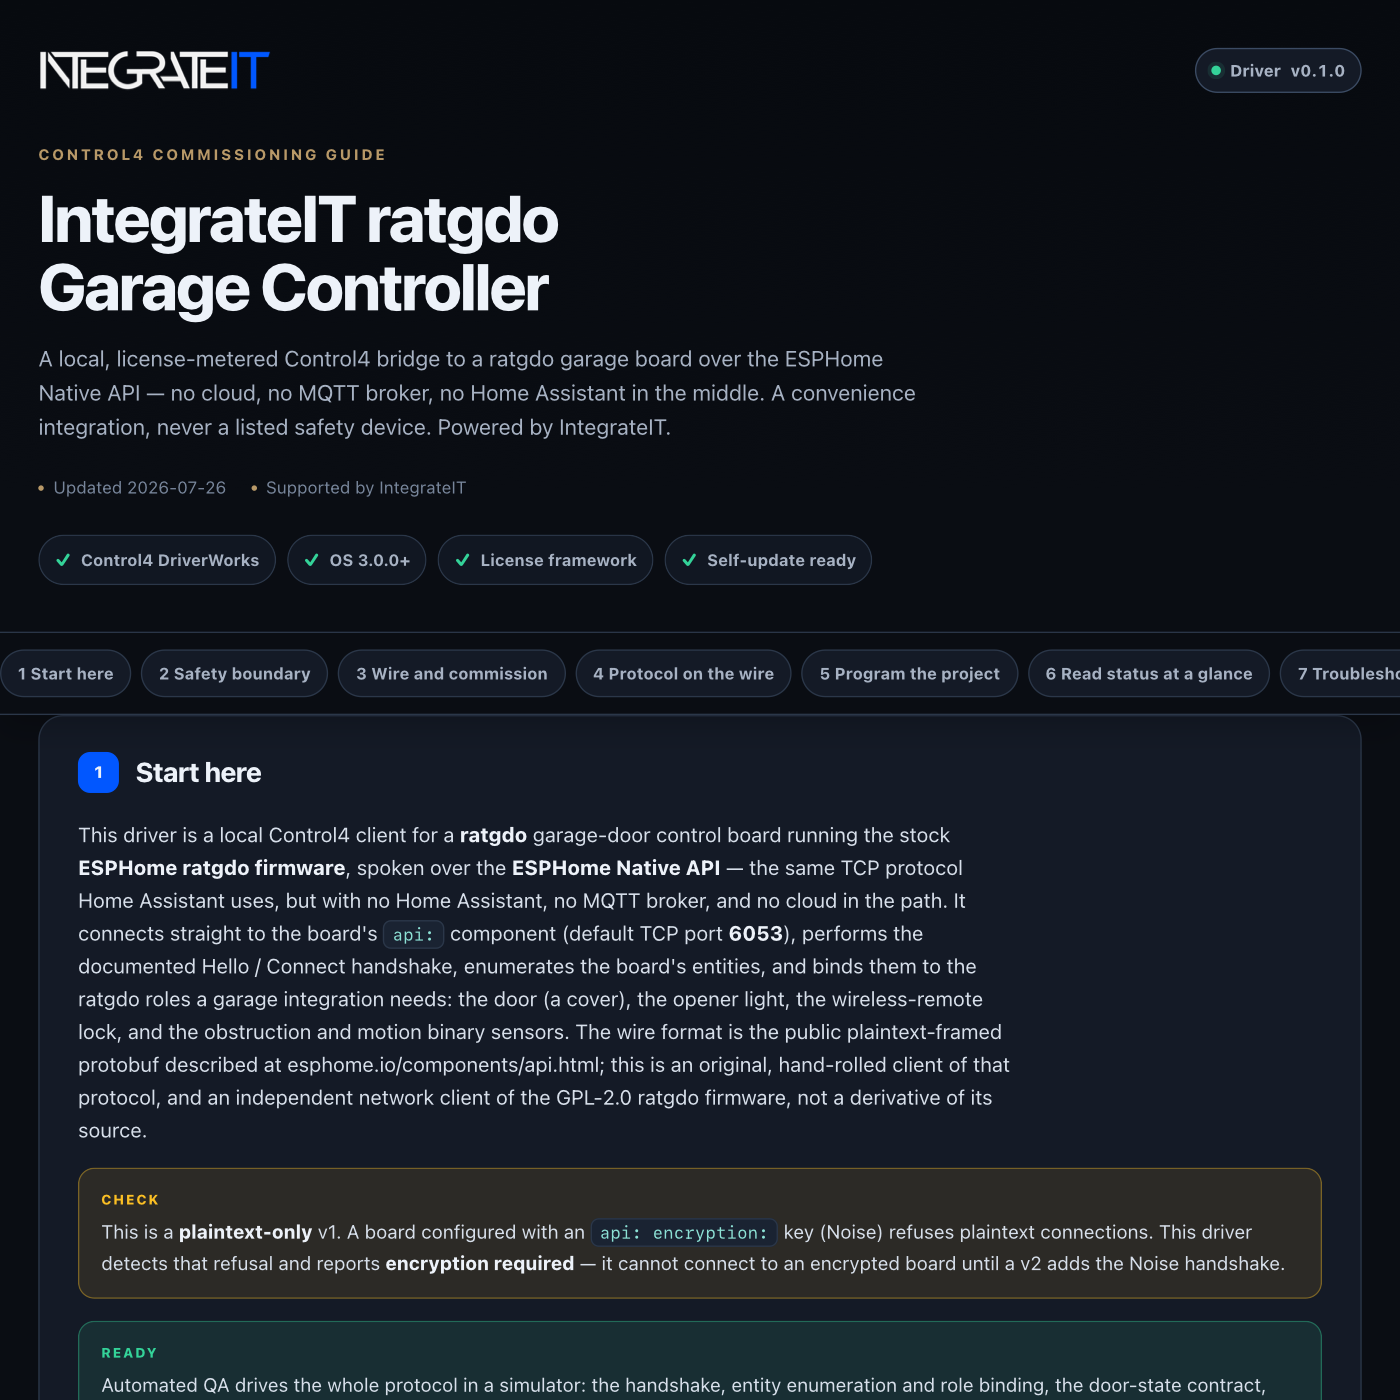
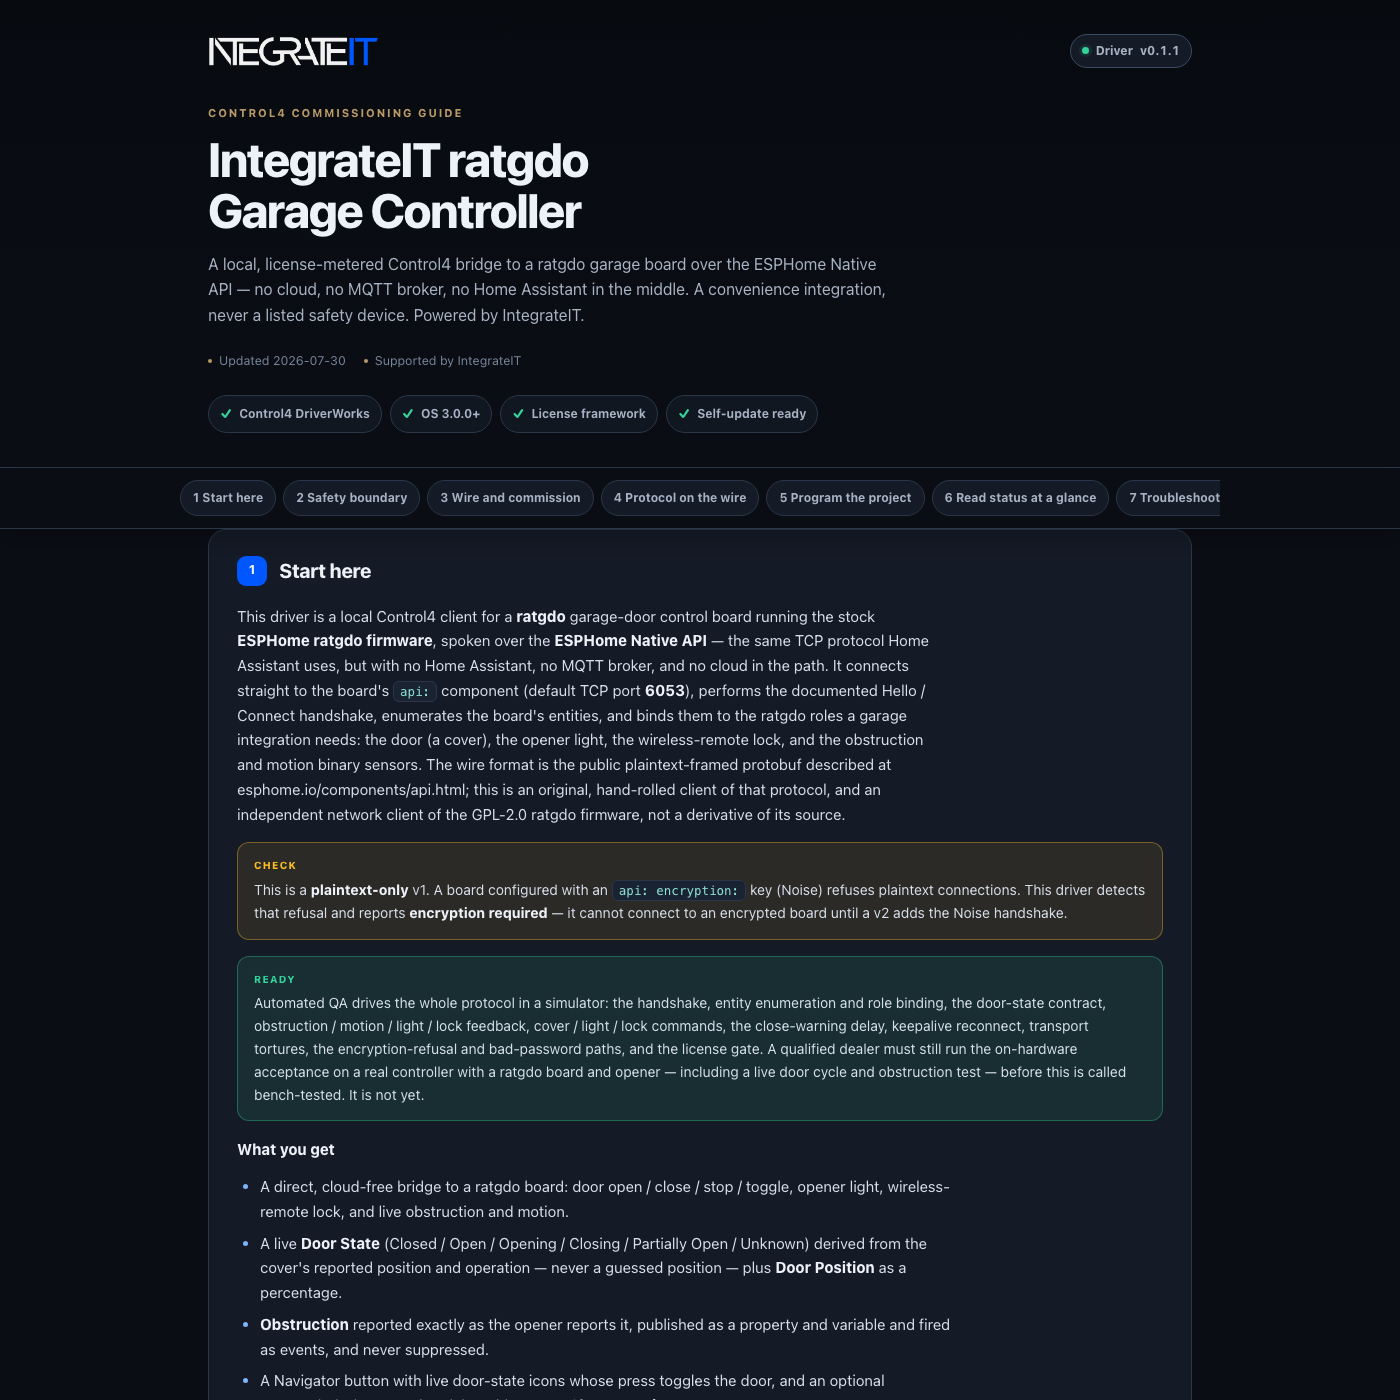
control4: publish driver channel (integrateit_ratgdo 0.1.2)

Changed region(s): [[0.0, 0.0, 0.9521, 1.0], [0.7371, 0.4607, 1.0, 0.4914], [0.7679, 0.0307, 0.9829, 0.0614]]

diff --git a/control4/integrateit_ratgdo/documentation.html b/control4/integrateit_ratgdo/documentation.html
@@ -179,13 +179,13 @@ td code{white-space:normal}
     <div class="wrap">
       <div class="brandbar">
[1 lines of base64/hex data omitted]
-        <span class="version"><span class="word">Driver</span> v0.1.1</span>
+        <span class="version"><span class="word">Driver</span> v0.1.2</span>
       </div>
       <p class="eyebrow">Control4 commissioning guide</p>
       <h1>IntegrateIT ratgdo Garage Controller</h1>
       <p class="sub">A local, license-metered Control4 bridge to a ratgdo garage board over the ESPHome Native API — no cloud, no MQTT broker, no Home Assistant in the middle. A convenience integration, never a listed safety device. Powered by IntegrateIT.</p>
       <div class="meta">
-        <span>Updated 2026-07-30</span>
+        <span>Updated 2026-07-31</span>
         <span>Supported by IntegrateIT</span>
       </div>
       <div class="readiness" aria-label="Driver capabilities">
@@ -224,7 +224,7 @@ td code{white-space:normal}
   <ol class="steps">
     <li>Prove the opener and all of its safety devices using the manufacturer's wall control and the ratgdo's own web UI first.</li>
     <li>Confirm the ratgdo board is flashed with stock ESPHome ratgdo firmware and is reachable on the LAN with its <code>api:</code> component enabled.</li>
-    <li>Understand that <b>Obstruction</b> here is *reported*, not *enforced*. When the opener reports the path obstructed, this driver surfaces it and never hides it — but the opener, not Control4, reverses the door.</li>
+    <li>Understand that <b>Obstruction</b> here is <i>reported</i>, not <i>enforced</i>: the driver surfaces it and never hides it, but the opener — not Control4 — reverses the door.</li>
     <li>Treat remote <b>open</b> and <b>close</b> as a security and safety exposure. This driver runs them only on an explicit user press or a program action, and never wires the door to auto-open on a scene.</li>
     <li>For an unattended-close workflow, set <b>Close Warning (s)</b> so a chime or light runs before the door moves — but that delay and its <b>Door Close Warning</b> event are an automation aid, <b>not</b> an audible/visual safety device. A listed unattended-close path uses the opener's approved warning accessories.</li>
   </ol>
@@ -265,7 +265,9 @@ td code{white-space:normal}
     <tr><td><code>OBSTRUCTION</code></td><td>BOOL</td><td>The opener reported the path obstructed</td></tr>
     <tr><td><code>MOTION</code></td><td>BOOL</td><td>The ratgdo motion sensor reported motion</td></tr>
     <tr><td><code>LIGHT_ON</code></td><td>BOOL</td><td>The opener light is on</td></tr>
-    <tr><td><code>LOCKED</code></td><td>BOOL</td><td>The wireless-remote lock is Locked</td></tr>
+    <tr><td><code>LOCKED</code> / <code>LOCK_STATE</code></td><td>BOOL / STRING</td><td>The wireless-remote lock is Locked / the lock's reported word</td></tr>
+    <tr><td><code>DEVICE_ONLINE</code> / <code>ENTITIES_ENUMERATED</code></td><td>BOOL</td><td>The board is connected / its entity list has been read</td></tr>
+    <tr><td><code>DEVICE_INFO</code></td><td>STRING</td><td>The board's name, model, ESPHome version, and MAC</td></tr>
   </table>
 </section>
 
@@ -274,8 +276,8 @@ td code{white-space:normal}
   <ul>
     <li><b>Connection Status</b> — <code>Not connected</code>, <code>Connecting…</code>, <code>Handshaking…</code>, <code>Authenticating…</code>, <code>Connected</code>, <code>Encryption required</code>, <code>Password rejected</code>, or a <code>Blocked: …</code> destination reason.</li>
     <li><b>Door State</b> — the derived door position/operation, or <code>Unknown</code> until the board first reports. <b>Door Position</b> carries the percentage.</li>
-    <li><b>Obstruction</b> — <code>Obstructed</code>, <code>Clear</code>, or <code>Unknown</code>. This is *reported*, never enforced, and never suppressed. Treat <code>Unknown</code> as "no reading yet".</li>
-    <li><b>Motion</b>, <b>Light State</b>, <b>Lock State</b> — the last reported value for each role, or <code>Unknown</code>.</li>
+    <li><b>Obstruction</b> — <code>Obstructed</code>, <code>Clear</code>, or <code>Unknown</code>. <i>Reported</i>, never enforced, and never suppressed.</li>
+    <li><b>Motion</b>, <b>Light State</b>, <b>Lock State</b> — the last reported value, or <code>Unknown</code>.</li>
     <li><b>Entities Found</b> — every enumerated entity plus the role each was bound to.</li>
     <li>Automate on the typed variables; treat <code>Unknown</code> as "no reading yet", not as a safe or closed door — anything claiming a position the board never reported would be faking it.</li>
   </ul>
@@ -285,9 +287,9 @@ td code{white-space:normal}
   <h2><span class="n">7</span> Troubleshoot methodically</h2>
   <ul>
     <li><b>Nothing connects, Connection Status shows <code>Blocked</code></b> — the destination failed the LAN-only check. Use a private LAN IPv4 or <code>*.local</code>, or set <b>Allow WAN Destinations</b> to Yes if you truly mean an off-LAN host.</li>
-    <li><b>Connection Status shows <code>Encryption required</code></b> — the board has an <code>api:</code> encryption key. Remove it in the ESPHome config, or wait for the v2 Noise build.</li>
+    <li><b>Connection Status shows <code>Encryption required</code></b> — remove the board's <code>api: encryption: key:</code> in the ESPHome config, or wait for the v2 Noise build.</li>
     <li><b>Connection Status shows <code>Password rejected</code></b> — the <b>Device Password</b> does not match the board's <code>api: password:</code>. Fix it; a rejected password is not retried.</li>
-    <li><b>Connected, but Door State stays <code>Unknown</code> and Entities Found shows no <code>door=</code></b> — no cover was enumerated (or the <b>Door Entity</b> override matches nothing). Confirm the ratgdo firmware exposes the garage-door cover, then <b>Refresh Entities</b>.</li>
+    <li><b>Connected, but Door State stays <code>Unknown</code> and Entities Found shows no <code>door=</code></b> — no cover was enumerated, or the <b>Door Entity</b> override matches nothing. Confirm the ratgdo firmware exposes the garage-door cover, then run <b>Refresh Entities</b>.</li>
     <li><b>A command does nothing and Status says <code>no bound entity</code></b> — that role has no matching entity on this board. Check <b>Entities Found</b> and set the override.</li>
     <li><b>The link drops and recovers on its own</b> — keepalive lost three pings and reconnected with backoff; entities re-enumerate automatically.</li>
     <li>Still stuck? Contact <b>support@integrateit.tech · (913) 804-7575</b>.</li>
@@ -299,7 +301,7 @@ td code{white-space:normal}
   <p>Nothing leaves the controller's LAN: the driver talks only to the ratgdo IP you set, and the destination guard refuses off-LAN hosts unless you opt in. The API password lives in a password-typed property and is never printed or logged — Debug records frame type and byte count only, never payloads. This is an original IntegrateIT implementation of the ESPHome Native API wire protocol; it bundles no third-party firmware source, driver, brand assets, or license. Licensing is MAC-locked to this controller: in <b>Lenient</b> mode (default) control still works and License Status carries the activation nag; in <b>Strict</b> mode an unlicensed controller cannot open the connection or send a door, light, or lock command at all — but obstruction and every other feedback path still flow, because safety reporting is never gated. The license is re-checked at command dispatch and again immediately before each wire write. Self-update, when enabled, stages a newer signed build from the IntegrateIT channel without touching your bindings.</p>
 <section class="card" id="reference" data-card="reference">
   <h2><span class="n">R</span> Reference</h2>
-  <p>Generated from the driver manifest at build time — always matches this build (v0.1.1).</p>
+  <p>Generated from the driver manifest at build time — always matches this build (v0.1.2).</p>
   <h3>Properties</h3>
   <table>
     <tr><th>Property</th><th>Type</th><th>Default</th><th>Description</th></tr>
@@ -453,7 +455,9 @@ td code{white-space:normal}
     <section class="card" id="changelog" data-card="changelog">
   <h2><span class="n">V</span> Version history</h2>
   <div class="chg">
-    <div class="rel"><b>v0.1.1</b> <span class="pill green">current</span><span class="d">2026-07-30</span>
+    <div class="rel"><b>v0.1.2</b> <span class="pill green">current</span><span class="d">2026-07-31</span>
+      <ul><li>Certification pass: this driver was read end to end against its own manifest and code — every command, action, event, variable and property name checked for a single spelling across the manifest, the code and this guide; every programming recipe rebuilt from names that actually exist; the commissioning path checked to end in something a dealer can observe; and every claim in the documentation verified against what the code does rather than what it intended.</li><li>Documentation rendering: emphasis written as *emphasis* in the source now renders as emphasis in the packaged Documentation tab instead of shipping as literal asterisks. Protocol strings that legitimately contain a star, quoted inside code, stay exactly as written.</li></ul></div>
+    <div class="rel"><b>v0.1.1</b><span class="d">2026-07-30</span>
       <ul><li>A numeric property containing nan or inf (possible through a hand-edited project file) passed tonumber, defeated every range clamp (all nan comparisons are false), and could reach a timer interval or the wire. Numeric properties now fall back to their documented default when non-finite, and the transmit chokepoint refuses a non-finite value by name.</li><li>A non-finite delay property armed a timer that never fired; the delay now falls back to its documented default.</li><li>Adds the fleet-standard Run Diagnostics and Run Self-Test dealer actions: read-only, license-independent, cached-state honesty. Diagnostics reports what the driver has already observed - never probing the network, never printing a secret. Self-Test proves the shared layer locally and ends PASS or FAIL.</li></ul></div>
     <div class="rel"><b>v0.1.0</b><span class="d">2026-07-26</span>
       <ul><li>Initial release candidate: a clean-room Control4 driver for a ratgdo board running stock ESPHome ratgdo firmware, speaking the ESPHome Native API plaintext-framed protobuf wire protocol directly over TCP (default port 6053) with a hand-rolled minimal codec — no third-party library. Specified from ESPHome's public docs (esphome.io/components/api.html) and the public api.proto message-id / field annotations, and the public ratgdo project's documented ESPHome entity surface (github.com/ratgdo/esphome-ratgdo). The ratgdo firmware is GPL-2.0; this driver is an independent network client of it, not a derivative of its source.</li><li>Handshake: HelloRequest/HelloResponse, then ConnectRequest with the optional legacy plaintext password and ConnectResponse (invalid_password surfaces a Password Rejected event with no retry storm), DeviceInfoRequest, a full ListEntities enumeration, and SubscribeStates.</li><li>Entity binding: auto-binds the ratgdo roles from the enumeration — the garage door (cover), the opener light, the wireless-remote lock, and the obstruction and motion binary sensors — with per-role object-id / key-hex overrides for non-standard entity names. A rebind re-baselines the role so no stale reading drives automation and the new entity's first reading is silent.</li><li>Door: Open / Close / Stop / Toggle over CoverCommandRequest, and a live Door State (Closed / Open / Opening / Closing / Partially Open / Unknown) derived from the cover's reported operation and position — never a guessed position. Door position is published as a percentage. A door stopped mid-travel reports as Partially Open, because the protocol reports position, not intent.</li><li>Garage safety register (UL 325 honesty): this is a convenience integration, NOT a listed safety device. Obstruction is published and never suppressed — reported exactly as the opener reports it, and it flows even while control is license-gated. The opener, not this driver, enforces obstruction reversal. Door moving-state transitions fire exactly once, the state is Unknown at boot, and the unknown-to-first-known reading fires no event. An optional Close Warning (s) delay fires a Door Close Warning event before a remote close is sent — an automation aid for unattended close, not an audible/visual safety device. Remote open/close run only on explicit user or program action.</li><li>Light and lock: opener light On / Off / Toggle and wireless-remote Lock / Unlock, each gated on the license at dispatch and re-checked immediately before the wire write.</li><li>Navigator: a uibutton with live door-state icons; a press toggles the door, deduped so one press is one command.</li><li>Resilience: keepalive Ping every interval with a three-missed-reply reconnect, bounded-backoff reconnect, entity re-enumeration on reconnect, a reassembly parser tolerant of arbitrary chunk boundaries and unknown message types, and a capped RX buffer.</li><li>Honest v1 boundary: PLAINTEXT + LEGACY PASSWORD ONLY, one ratgdo per instance. A board with an api: encryption key (Noise) refuses plaintext; the driver detects the refusal frame and reports "This board requires API encryption; disable the key or wait for v2." rather than retrying. No Noise/ChaCha20 in v1.</li><li>Safety of the wire: LAN-only destination guard with an Allow WAN Destinations override, a password-typed credential that is never printed or logged, Debug that logs frame type + byte count only (never payload content), and MAC-locked IntegrateIT licensing.</li></ul></div>

diff --git a/control4/integrateit_ratgdo/CHANGELOG.md b/control4/integrateit_ratgdo/CHANGELOG.md
@@ -1,5 +1,9 @@
 # Changelog — IntegrateIT ratgdo Garage Controller
 
+## [0.1.2] - 2026-07-31
+- Certification pass: this driver was read end to end against its own manifest and code — every command, action, event, variable and property name checked for a single spelling across the manifest, the code and this guide; every programming recipe rebuilt from names that actually exist; the commissioning path checked to end in something a dealer can observe; and every claim in the documentation verified against what the code does rather than what it intended.
+- Documentation rendering: emphasis written as *emphasis* in the source now renders as emphasis in the packaged Documentation tab instead of shipping as literal asterisks. Protocol strings that legitimately contain a star, quoted inside code, stay exactly as written.
+
 ## [0.1.1] - 2026-07-30
 - A numeric property containing nan or inf (possible through a hand-edited project file) passed tonumber, defeated every range clamp (all nan comparisons are false), and could reach a timer interval or the wire. Numeric properties now fall back to their documented default when non-finite, and the transmit chokepoint refuses a non-finite value by name.
 - A non-finite delay property armed a timer that never fired; the delay now falls back to its documented default.
